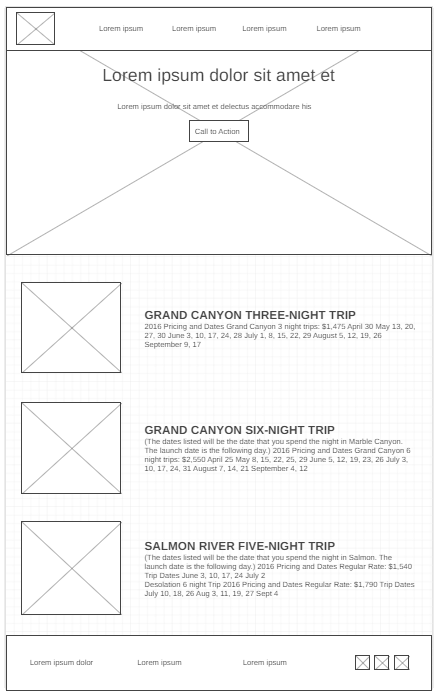
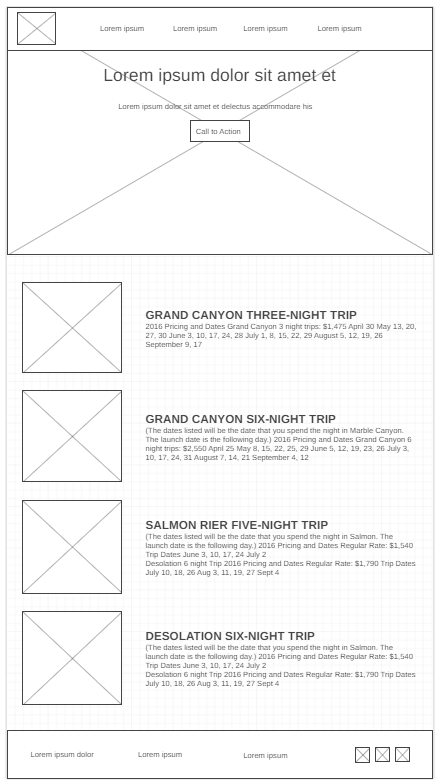
WEEK9

diff --git a/wwr/rates.html b/wwr/rates.html
@@ -5,7 +5,7 @@
     <meta http-equiv="X-UA-Compatible" content="IE=edge">
     <meta name="viewport" content="width=device-width, initial-scale=1.0">
     <link rel="stylesheet" href="styles/style.css">
-    <title>Whitewater Rafting Vacations | Dry Oar Boating | Home</title>
+    <title>Whitewater Rafting Vacations | Dry Oar Boating | Rates and Dates</title>
 </head>
 <body>
     <div id = "content">
@@ -22,42 +22,39 @@
         </header>
         <div id = "hero">
             <div id="hero-box">
-                <img id="hero-img" src="images/hero.png" alt="People enjoying rafting"/>
+                <img id="hero-img" src="images/rafting.jpg" alt="People enjoying rafting"/>
             </div>
             <section id="hero-msg">
-                <h1 class="home-title">Have An Adventure</h1>
+                <h1 class="home-title">Rate and Dates</h1>
                 <h4>Make Memories with Dry Oar</h4>
                 <div class="button-box">
                     <a class="book" href="contactus.html">Book Now</a>
-
                 </div>
             </section>
         </div>
-        <main class="home-grid">
-            <section class="rivers-card">
-                <img class="card-img" src="images/rivers.jpg" alt="river in forest">
-                <img class="icon" src="images/river_icon.png" alt="river icon">
-                <h2>Rivers</h2>
+        <main class="rates-grid">
+            <img class="canyon-tree-img" src="images/canyon3night.jpg" alt="river in forest">
+            <section class="canyon-tree">
+                <h2>Grand Canyon Tree-Night Trip</h2>
+                <p>2016 Pricing and Dates Grand Canyon 3 night trips: $1,475 April 30 May 13, 20, 27, 30 June 3, 10, 17, 24, 28 July 1, 8, 15, 22, 29 August 5, 12, 19, 26 September 9, 17</p>
             </section>
-            <section class="camping-card">
-                <img class="card-img" src="images/camping.jpg" alt="tent in mountains">
-                <img class="icon" src="images/fire_icon.png" alt="fire icon">
-                <h2>Camping</h2>
+            <img class="canyon-six-img" src="images/canyon6night.jpg" alt="tent in mountains">
+            <section class="canyon-six">
+                <h2>Grand Canyon Six-Night Trip</h2>
+                <p>2016 Pricing and Dates Grand Canyon 6 night trips: $2,550 April 25 May 8, 15, 22, 25, 29 June 5, 12, 19, 23, 26 July 3, 10, 17, 24, 31 August 7, 14, 21 September 4, 12 (The dates listed will be the date that you spend the night in Marble Canyon. The launch date is the following day.)</p>
             </section>
-            <section class="rapids-card">
-                <img class="card-img" src="images/rapids.jpg" alt="rafting boat">
-                <img class="icon" src="images/oars.png" alt="oars icon">
-                <h2>Rapids</h2>
+            <img class="salmon-img" src="images/river5night.jpg" alt="rafting boat">
+            <section class="salmon">
+                <h2>Salmon River Five-Night Trip</h2>
+                <p>2016 Pricing and Dates Regular Rate: $1,540 Trip Dates June 3, 10, 17, 24 July 2 (The dates listed will be the date that you spend the night in Salmon. The launch date is the following day.)</p>
             </section>
-            <div id="background"></div>
-            <img class="mountains" src="images/mountains.jpg" alt="Misty mountains">
-            <section class="msg">
-                <h2>More Than Just The Thrill</h2>
-                <p>Enjoy the breathtaking scenery. From valleys, meadows, canyons, and high peaks; it's way more than just the rapids. It's a great way to get away from it all and relax amongst all the beauty of the great outdoors. </p>
-                <a class='join' href="rivers.html">Join Us</a>
+            <img class="desolation-img" src="images/desolation5night.jpg" alt="rafting boat">
+            <section class="desolation">
+                <h2>Desolation Six-Night Trip</h2>
+                <p>2016 Pricing and Dates Regular Rate: $1,790 Trip Dates July 10, 18, 26 Aug 3, 11, 19, 27 Sept 4</p>
             </section>
         </main>
-        <footer>
+        <footer class="rates-footer">
             <h3>Dry Oar &copy; 2022 - José Meirelles</h3>
             <h3><a href="site-plan-rafting.html">Site Plan</a></h3>
             <h3><a href="contactus.html">Contact Us</a></h3>

diff --git a/wwr/styles/style.css b/wwr/styles/style.css
@@ -192,6 +192,94 @@ nav{
     z-index: -1;
 }
 
+/* Excusive Page2 - Rate and Dates css */
+.rates-grid {
+    margin-top: 50px;
+    display: grid;
+    grid-template-columns: 1fr 1fr 1fr 1fr 1fr 1fr 1fr 1fr 1fr;
+}
+.rates-grid p {
+    margin-top: 0;
+}
+.canyon-tree-img {
+    border: 10px solid #fcf300;
+    transition: transform .5s;
+    box-shadow: 5px 5px 10px #6f7364;
+    width: 100%;
+    height: 80%;
+    grid-column: 2/4;
+    grid-row: 1/4;
+}
+.canyon-tree-img:hover {
+    opacity: .6;
+    transform: scale(1.1);
+}
+.canyon-tree {
+    grid-column: 5/9;
+    grid-row: 2/3;
+    text-align: left;
+}
+.canyon-six-img {
+    border: 10px solid #fcf300;
+    transition: transform .5s;
+    box-shadow: 5px 5px 10px #6f7364;
+    width: 100%;
+    height: 80%;
+    grid-column: 2/4;
+    grid-row: 5/8;
+}
+.canyon-six-img:hover {
+    opacity: .6;
+    transform: scale(1.1);
+}
+.canyon-six {
+    grid-column: 5/9;
+    grid-row: 6/7;
+    text-align: left;
+}
+.salmon-img {
+    border: 10px solid #fcf300;
+    transition: transform .5s;
+    box-shadow: 5px 5px 10px #6f7364;
+    width: 100%;
+    height: 80%;
+    grid-column: 2/4;
+    grid-row: 9/12;
+}
+.salmon-img:hover {
+    opacity: .6;
+    transform: scale(1.1);
+}
+.salmon {
+    grid-column: 5/9;
+    grid-row: 10/11;
+    text-align: left;
+}
+.desolation-img {
+    border: 10px solid #fcf300;
+    transition: transform .5s;
+    box-shadow: 5px 5px 10px #6f7364;
+    width: 100%;
+    height: 80%;
+    grid-column: 2/4;
+    grid-row: 13/16;
+}
+.desolation-img:hover {
+    opacity: .6;
+    transform: scale(1.1);
+}
+.desolation {
+    grid-column: 5/9;
+    grid-row: 14/15;
+    text-align: left;
+}
+.rates-footer {
+    margin-top: 50px;
+}
+
+/* Responsive */
+
+
 
 @media screen and (max-width: 900px) {
     #hero, .home-grid {
